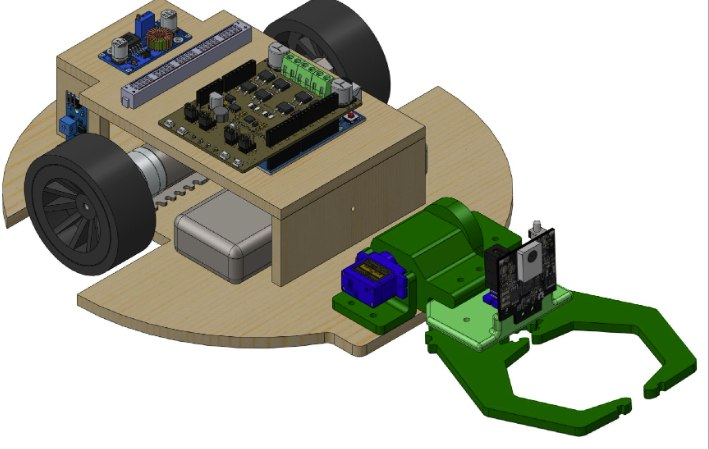
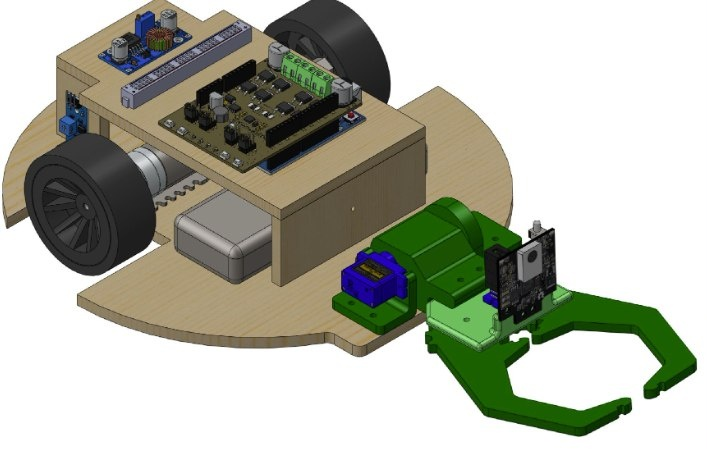
Remove stray edge-line artifacts from images sitewide
The "CAD model of chassis + integrated claw" photo had a 1px
reddish-pink line baked into its right edge. Scanned every image on
the site for the same kind of defect (comparing edge pixels against
the pixels just inside them) and found four more with a fainter gray
version of the same issue: the Scientific Horizons placeholder, the
solar car initial CAD prototype photo, the airwatts chart, and the
RC Rover assembly drawing. Cropped 2px off the affected edge on each
and updated the one container (airwatts chart) whose aspect-ratio was
matched exactly to the source dimensions. All images now scan clean.

diff --git a/index.html b/index.html
@@ -1413,7 +1413,7 @@
      ratio (set inline per figure) instead of cropping to fit a fixed box. */
   .po-media-contain img { object-fit: contain; }
 
-  .po-media-chart { aspect-ratio: 1190 / 721; }
+  .po-media-chart { aspect-ratio: 1190 / 719; }
   .po-media-chart img { object-fit: contain; }
 
   @media (max-width: 620px) {
@@ -2623,7 +2623,7 @@
         </p>
       </div>
       <figure class="po-figure po-media-contain" style="max-width: 468px;">
-        <div class="po-media" style="aspect-ratio: 709 / 449;"><img src="assets/autonomous-rover/cad-model.jpg" alt="CAD model of chassis + integrated claw"></div>
+        <div class="po-media" style="aspect-ratio: 707 / 449;"><img src="assets/autonomous-rover/cad-model.jpg" alt="CAD model of chassis + integrated claw"></div>
         <figcaption class="po-figcaption">CAD model of chassis + integrated claw</figcaption>
       </figure>
     </section>
